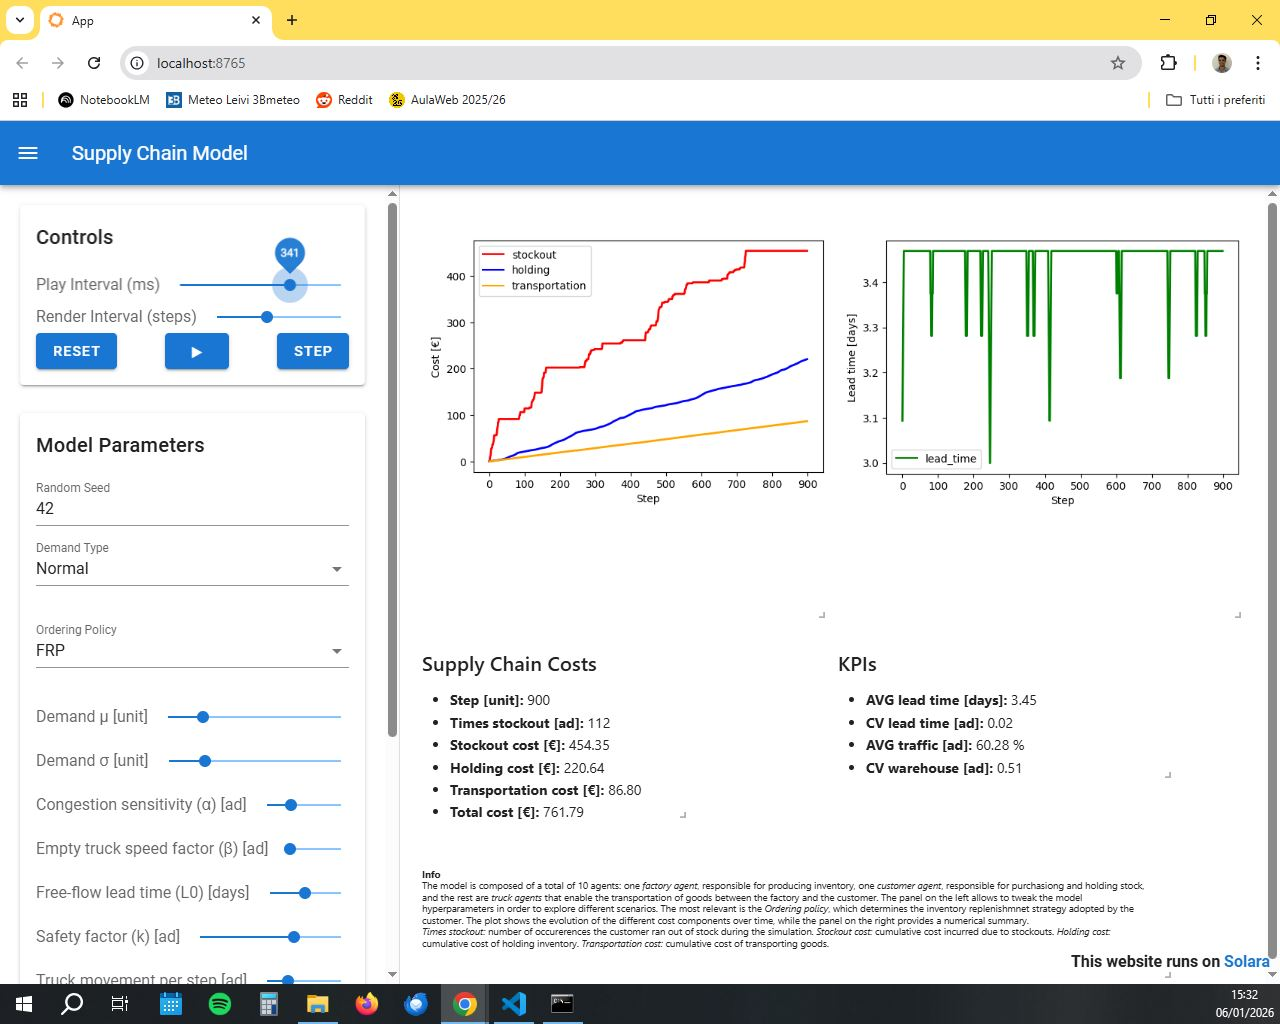
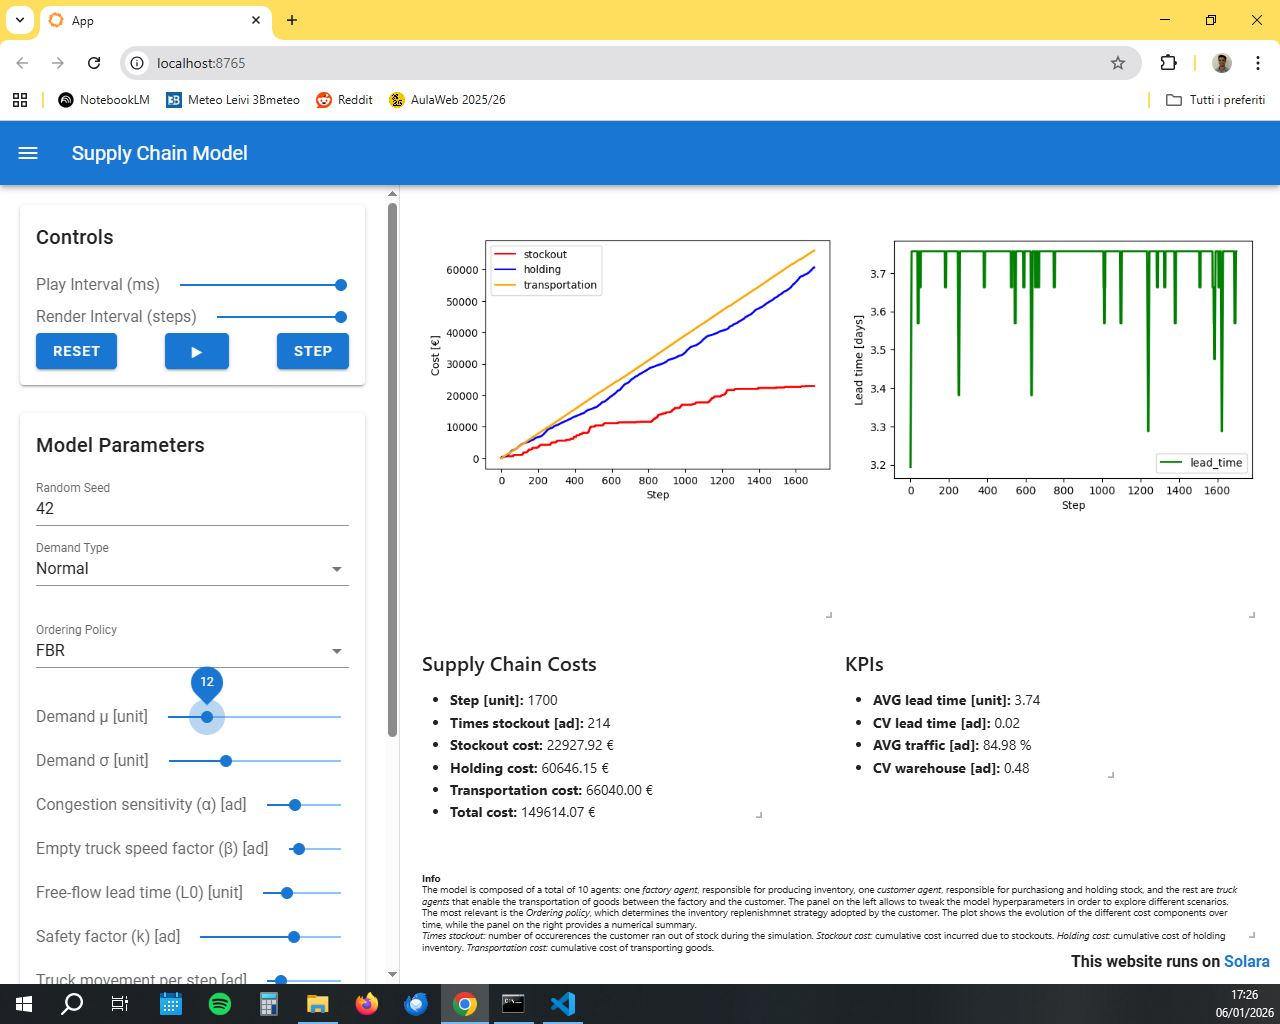
parameters adjusted

diff --git a/solara/app.py b/solara/app.py
@@ -23,10 +23,10 @@ def get_costs(model: SupplyChainModel):
         f"### Supply Chain Costs\n"
         f"- **Step [unit]:** {model.steps}\n"
         f"- **Times stockout [ad]:** {model.times_stockout}\n"
-        f"- **Stockout cost [€]:** {model.stockout_cost:.2f}\n"
-        f"- **Holding cost [€]:** {model.hold:.2f}\n"        
-        f"- **Transportation cost [€]:** {model.transportation:.2f}\n"
-        f"- **Total cost [€]:** {model.hold + model.stockout_cost + model.transportation:.2f}\n"
+        f"- **Stockout cost:** {model.stockout_cost:.2f} €\n"
+        f"- **Holding cost:** {model.hold:.2f} €\n"        
+        f"- **Transportation cost:** {model.transportation:.2f} €\n"
+        f"- **Total cost:** {model.hold + model.stockout_cost + model.transportation:.2f} €\n"
     )
     return solara.Markdown(
         text,
@@ -38,7 +38,7 @@ def get_kpi(model: SupplyChainModel):
     kpis = model.compute_kpis()
     text = (
         f"### KPIs\n\n"
-        f"- **AVG lead time [days]:** {kpis['avg_lead_time']:.2f}\n"
+        f"- **AVG lead time [unit]:** {kpis['avg_lead_time']:.2f}\n"
         f"- **CV lead time [ad]:** {kpis['cv_lead_time']:.2f}\n"
         f"- **AVG traffic [ad]:** {kpis['avg_traffic']:.2f} %\n"
         f"- **CV warehouse [ad]:** {kpis['cv_inventory']:.2f}\n"
@@ -97,15 +97,15 @@ model_params = {
                     },
 
     "mu": Slider("Demand μ [unit]", 10, 1, 50, 1),
-    "sigma": Slider("Demand σ [unit]", 5, 1, 20, 1),
-    "alpha": Slider("Congestion sensitivity (α) [ad]", 0.75, 0.0, 2.0, 0.33),
-    "beta": Slider("Empty truck speed factor (β) [ad]", 1.03, 1.0, 2.0, 0.01),
-    "L_0": Slider("Free-flow lead time (L0) [days]", 3, 1, 5, 0.33),
+    "sigma": Slider("Demand σ [unit]", 5, 0.1, 15, 0.25),
+    "alpha": Slider("Congestion sensitivity (α) [ad]", 0.75, 0.0, 2.0, 0.01),
+    "beta": Slider("Empty truck speed factor (β) [ad]", 1.1, 1.0, 1.5, 0.005),
+    "L_0": Slider("Free-flow lead time (L0) [unit]", 3, 0.1, 10, 0.25),
     "k": Slider("Safety factor (k) [ad]", 2.33, 1.0, 3.0, 0.01),
-    "truck_movement": Slider("Truck movement per step [ad]", 1.5, 0.1, 5.0, 0.1),
-    "p": Slider("Unit stockout penalty [€/unit]", 1.0, 0.0, 10.0, 0.1),
-    "h": Slider("Unit holding cost [€/unit]", 0.01, 0.0, 1.0, 0.01),
-    "c": Slider("Unit transport cost [€/unit]", 0.01, 0.0, 1.0, 0.01),
+    "truck_movement": Slider("Truck movement per step [ad]", 1, 0.1, 5.0, 0.1),
+    "p": Slider("Unit stockout penalty [€/unit]", 25.0, 0.0, 100.0, 1),
+    "h": Slider("Unit holding cost [€/unit]", 1.5, 0.0, 50.0, 0.5),
+    "c": Slider("Unit transport cost [€/unit]", 4, 0.0, 50.0, 0.5),
     "n_trucks": Slider('Number of trucks [ad]', 8, 1, 20, 1),
 }
 
